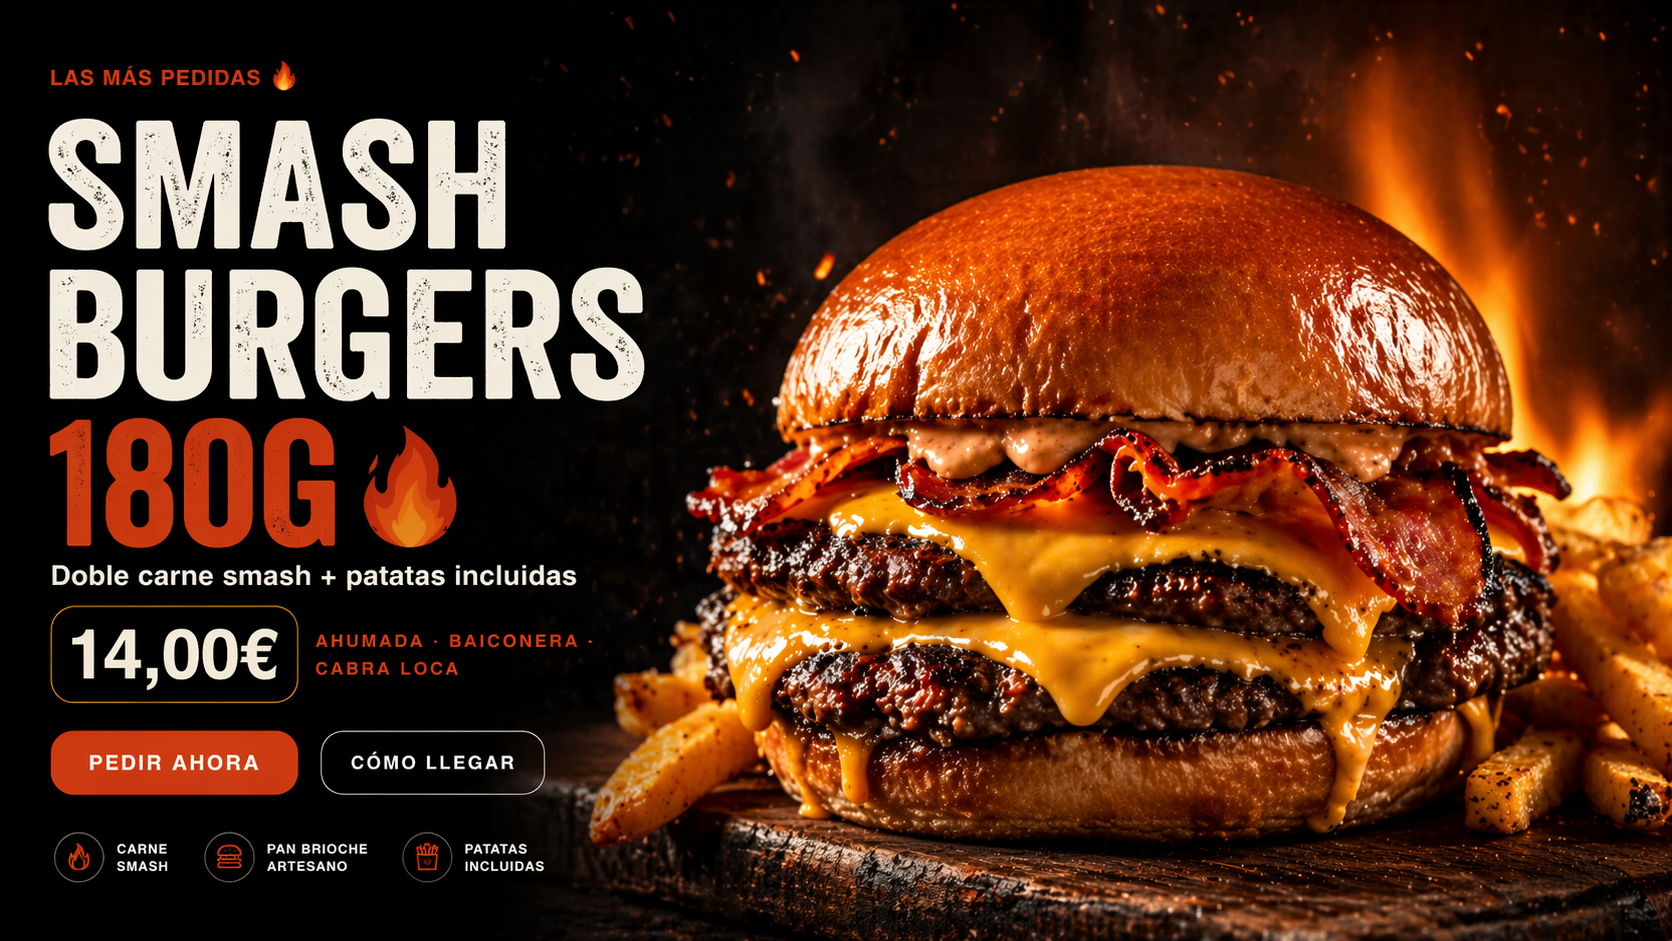
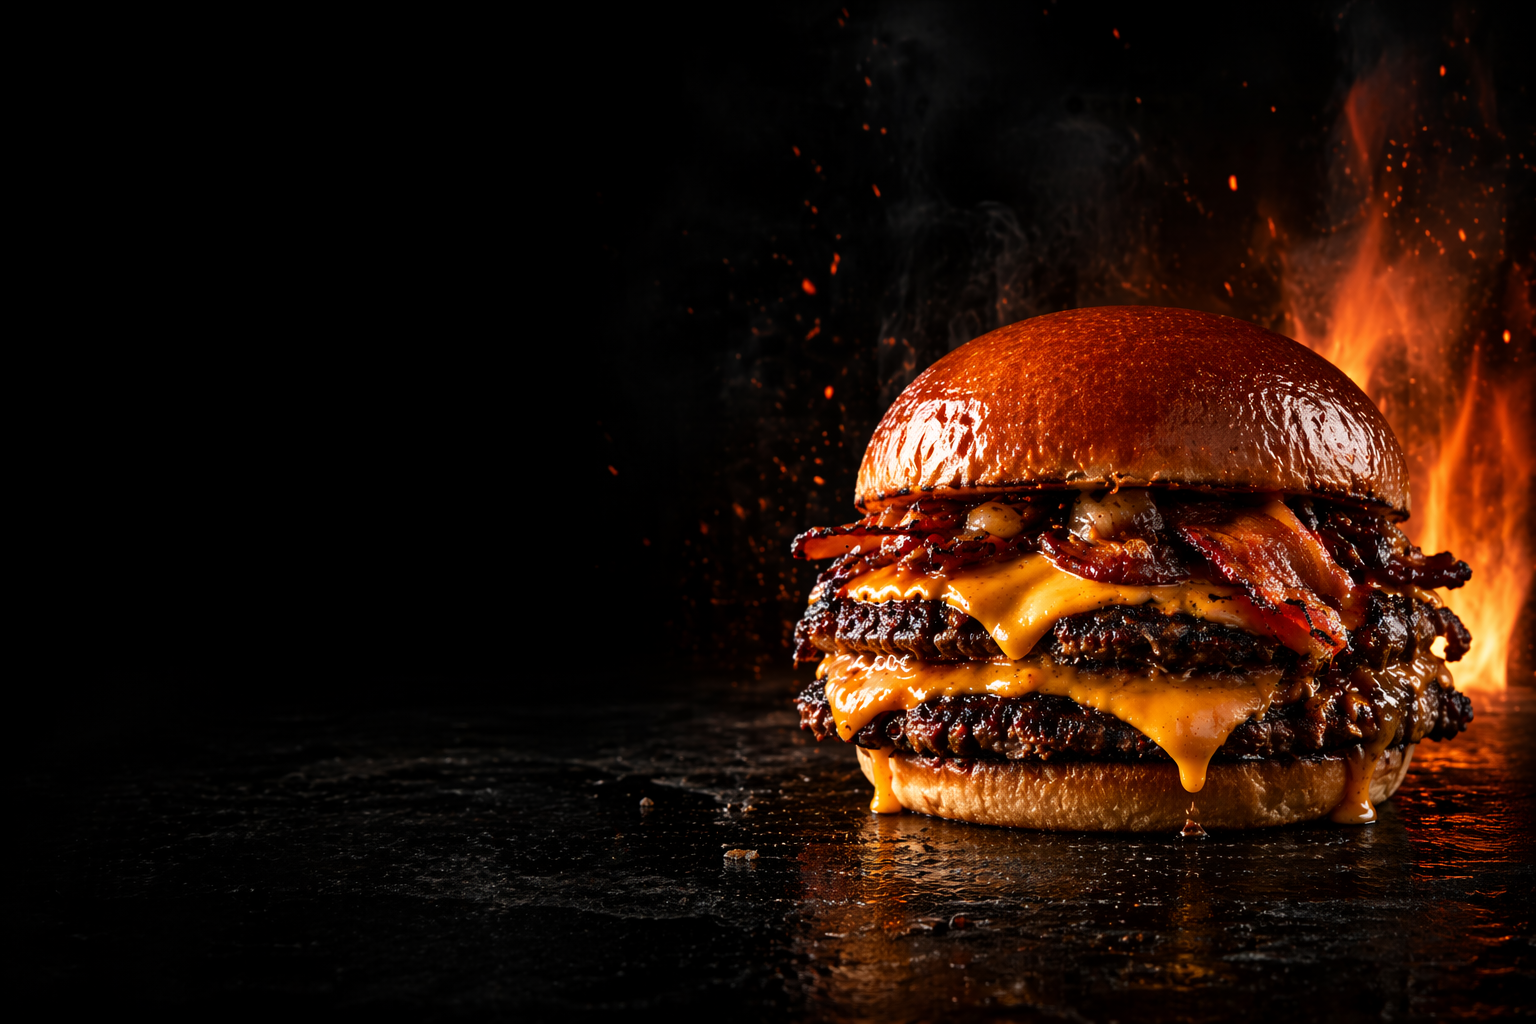
force clean smash hero image

diff --git a/components/menu/SmashPromoCTA.tsx b/components/menu/SmashPromoCTA.tsx
@@ -18,146 +18,58 @@ type SmashPromoCTAProps = {
   };
 };
 
-const sizeStyles = {
-  sm: {
-    wrapper: "p-4 md:p-5",
-    minHeight: "min-h-[320px] md:min-h-[360px]",
-    title: "text-[1.9rem] md:text-[2.4rem]",
-    price: "text-[1.5rem] md:text-[2rem]",
-    subtitle: "text-sm md:text-base",
-    variants: "text-xs",
-    imageBox: "w-[46%] max-w-[320px]",
-  },
-  md: {
-    wrapper: "p-5 md:p-6",
-    minHeight: "min-h-[360px] md:min-h-[420px]",
-    title: "text-[2.2rem] md:text-[3rem]",
-    price: "text-[1.9rem] md:text-[2.6rem]",
-    subtitle: "text-base md:text-lg",
-    variants: "text-sm",
-    imageBox: "w-[48%] max-w-[420px]",
-  },
-  lg: {
-    wrapper: "p-6 md:p-8",
-    minHeight: "min-h-[420px] md:min-h-[500px]",
-    title: "text-[2.9rem] md:text-[5.2rem]",
-    price: "text-[2.2rem] md:text-[3rem]",
-    subtitle: "text-base md:text-lg",
-    variants: "text-sm",
-    imageBox: "w-[52%] max-w-[560px]",
-  },
-} as const;
-
-const themeStyles = {
-  dark: {
-    wrapper: "border-white/10 bg-black text-white",
-    claim: "text-[#f2c6bb]",
-    title: "text-[#fff8ef]",
-    subtitle: "text-white/90",
-    price: "text-[#fff8ef]",
-    variants: "text-[#f2c6bb]",
-    pricePill: "border-[#f0d28f]/40 bg-black/45 backdrop-blur-sm",
-    sectionBg:
-      "linear-gradient(180deg, rgba(8,8,8,1) 0%, rgba(14,14,14,1) 100%)",
-    overlay:
-      "linear-gradient(90deg, rgba(0,0,0,0.96) 0%, rgba(0,0,0,0.88) 34%, rgba(0,0,0,0.52) 58%, rgba(0,0,0,0.18) 76%, rgba(0,0,0,0.06) 100%)",
-  },
-  red: {
-    wrapper: "border-[#d94b2b]/40 bg-[#b9381c] text-white",
-    claim: "text-[#ffe0d7]",
-    title: "text-[#fff8ef]",
-    subtitle: "text-white/95",
-    price: "text-[#fff8ef]",
-    variants: "text-[#ffe0d7]",
-    pricePill: "border-[#fff0d7]/35 bg-black/20 backdrop-blur-sm",
-    sectionBg:
-      "linear-gradient(180deg, rgba(160,45,18,1) 0%, rgba(120,30,8,1) 100%)",
-    overlay:
-      "linear-gradient(90deg, rgba(35,5,0,0.88) 0%, rgba(65,10,2,0.76) 30%, rgba(120,28,8,0.40) 58%, rgba(0,0,0,0.12) 100%)",
-  },
-} as const;
-
 export function SmashPromoCTA({
   promo,
-  size = "lg",
-  theme = "dark",
-  compact = false,
   primaryAction,
   secondaryAction,
 }: SmashPromoCTAProps) {
-  const resolvedSize = compact && size === "lg" ? "md" : size;
-  const styles = sizeStyles[resolvedSize];
-  const themeClass = themeStyles[theme];
-  const showActions = !compact || primaryAction || secondaryAction;
-
   return (
     <section
-      className={`group relative overflow-hidden rounded-[2.2rem] border shadow-[0_28px_70px_rgba(0,0,0,0.22)] ${themeClass.wrapper} ${styles.wrapper} ${styles.minHeight}`}
-      style={{ background: themeClass.sectionBg }}
+      className="group relative overflow-hidden rounded-[2.2rem] border border-white/10 bg-black text-white shadow-[0_28px_70px_rgba(0,0,0,0.22)]"
+      style={{
+        backgroundImage: promo.image?.src
+          ? `linear-gradient(90deg, rgba(0,0,0,0.92) 0%, rgba(0,0,0,0.75) 45%, rgba(0,0,0,0.2) 100%), url(${promo.image.src})`
+          : undefined,
+        backgroundSize: "cover",
+        backgroundPosition: "75% center",
+      }}
     >
-      <div
-        className="absolute inset-0"
-        style={{ background: themeClass.overlay }}
-      />
-
-      <div className="absolute inset-0 opacity-10 [background-image:linear-gradient(transparent_0%,rgba(255,255,255,0.03)_50%,transparent_100%)]" />
-
-      {promo.image?.src ? (
-        <div
-          className={`pointer-events-none absolute bottom-0 right-0 z-0 hidden h-[92%] ${styles.imageBox} md:block`}
-        >
-          <img
-            src={promo.image.src}
-            alt=""
-            className="h-full w-full object-contain object-right-bottom"
-          />
-        </div>
-      ) : null}
-
-      <div className="relative z-10 flex h-full max-w-[760px] flex-col justify-center">
-        <p className={`text-[11px] font-black uppercase tracking-[0.22em] ${themeClass.claim}`}>
+      <div className="relative z-10 p-6 md:p-10 max-w-[680px]">
+        <p className="text-[11px] font-black uppercase tracking-[0.22em] text-[#f2c6bb]">
           {promo.claim}
         </p>
 
-        <h2 className={`mt-3 font-black uppercase leading-[0.84] tracking-[-0.07em] ${themeClass.title} ${styles.title}`}>
+        <h2 className="mt-3 font-black uppercase leading-[0.9] tracking-[-0.05em] text-[2.8rem] md:text-[5rem]">
           {promo.title}
         </h2>
 
-        <p className={`mt-3 font-semibold ${themeClass.subtitle} ${styles.subtitle}`}>
+        <p className="mt-3 text-white/85 font-semibold">
           {promo.subtitle}
         </p>
 
         <div className="mt-5 flex flex-wrap items-center gap-3">
-          <span className={`rounded-full border px-4 py-2 font-black uppercase tracking-[-0.05em] ${themeClass.pricePill} ${themeClass.price} ${styles.price}`}>
+          <span className="rounded-full border border-[#f0d28f]/40 bg-[#f0d28f]/12 px-4 py-2 text-[1.8rem] font-black">
             {promo.price}
           </span>
 
-          <span className={`font-black uppercase tracking-[0.18em] ${themeClass.variants} ${styles.variants}`}>
+          <span className="text-sm font-black uppercase tracking-[0.18em] text-[#f2c6bb]">
             {promo.variants.join(" · ")}
           </span>
         </div>
 
-        {showActions && (
-          <div className="mt-7 flex flex-wrap gap-3">
-            {primaryAction ? (
-              <ActionButton href={primaryAction.href}>
-                {primaryAction.label}
-              </ActionButton>
-            ) : !compact ? (
-              <ActionButton href="/reservas-contacto">Pedir ahora</ActionButton>
-            ) : null}
+        <div className="mt-7 flex gap-3">
+          {primaryAction && (
+            <ActionButton href={primaryAction.href}>
+              {primaryAction.label}
+            </ActionButton>
+          )}
 
-            {secondaryAction ? (
-              <ActionButton href={secondaryAction.href} kind="secondary">
-                {secondaryAction.label}
-              </ActionButton>
-            ) : !compact ? (
-              <ActionButton href="/ubicacion-ogijares" kind="secondary">
-                Cómo llegar
-              </ActionButton>
-            ) : null}
-          </div>
-        )}
+          {secondaryAction && (
+            <ActionButton href={secondaryAction.href} kind="secondary">
+              {secondaryAction.label}
+            </ActionButton>
+          )}
+        </div>
       </div>
     </section>
   );
